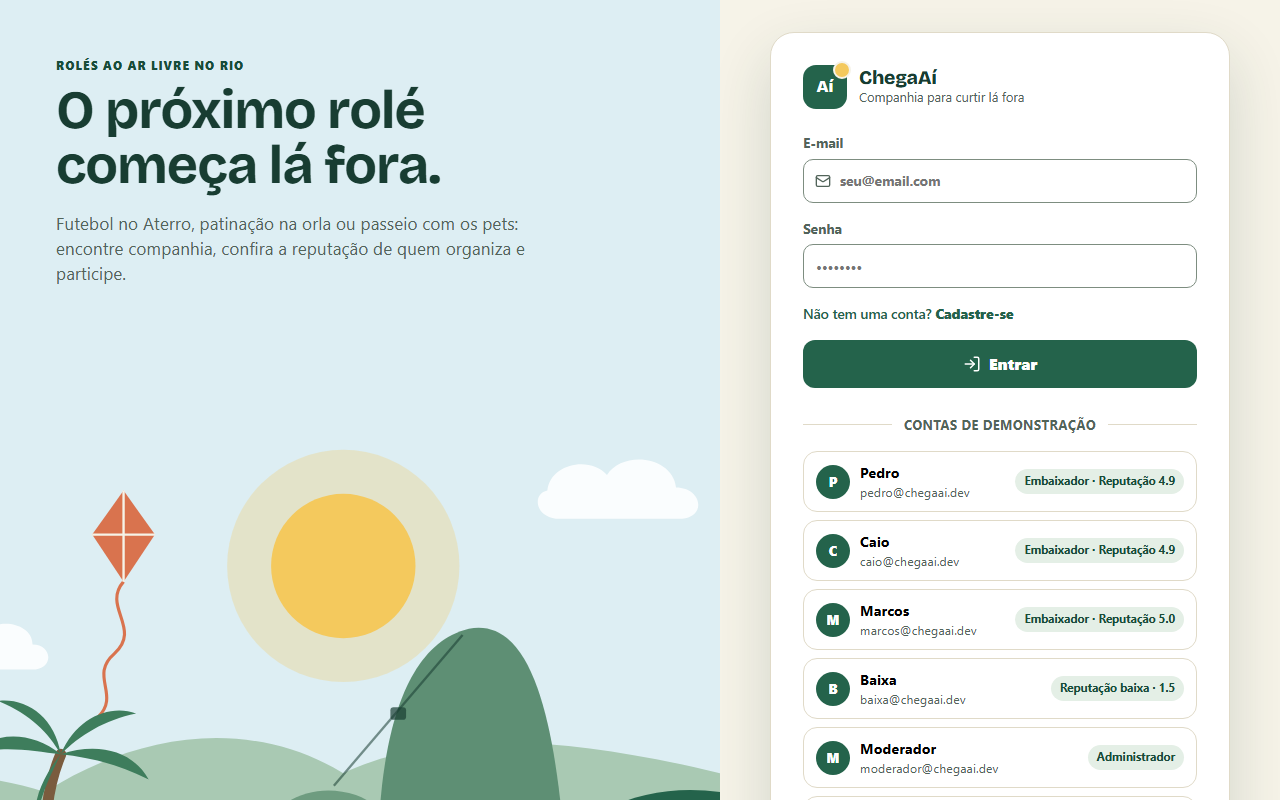
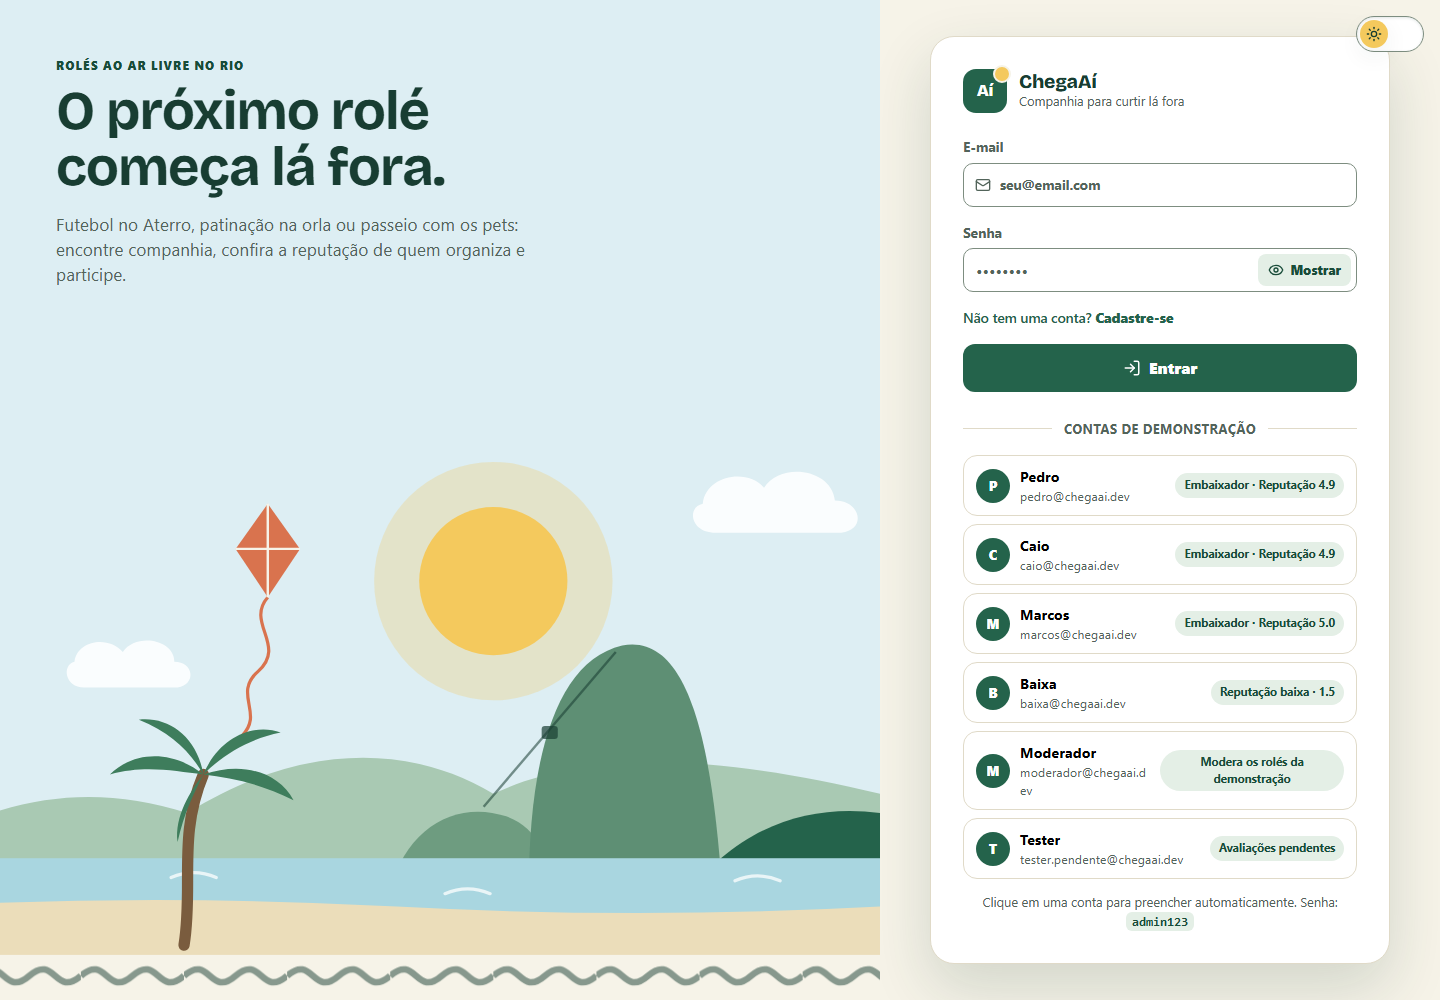
docs: atualizar fluxos e execução dos testes locais

diff --git a/README.md b/README.md
@@ -26,27 +26,37 @@ Pedro Farias continuou o projeto neste repositório:
 
 - front-end migrado de Vite para **Next.js** e dividido em componentes;
 - **autenticação real** com senhas em BCrypt, token **JWT** e cadastro de usuários (antes o login só conferia o e-mail);
-- **registro de presença** pelo organizador, que tornou o fluxo de avaliações alcançável pela API;
+- **presença, conclusão e avaliações na interface**, com resumo de ausências antes de concluir e pendências no perfil;
 - correção de horários exibidos 3 horas adiantados (UTC) e de erros de validação que viravam erro 500;
 - **testes unitários e de integração** com PostgreSQL real (Testcontainers) e integração contínua no GitHub Actions;
 - **Docker**, Docker Compose e deploy da versão online;
 - **diagramas UML** gerados a partir do código;
-- **novo visual** pensado para rolés ao ar livre: paleta de areia e verde, ilustração própria da orla, cores por categoria e navegação por cabeçalho, com foco visível e o detalhe do rolé operável pelo teclado.
+- **novo visual** pensado para rolés ao ar livre: paleta de areia e verde, ilustração da orla, cores por categoria, modo escuro e navegação lateral (abas no celular), com foco visível e diálogos operáveis pelo teclado.
 
 ## Funcionalidades
 
 - Cadastro e login com JWT; contas de demonstração prontas para testar.
-- Feed de rolés com busca e filtros por categoria, distância e honra do organizador.
+- Feed de rolés com busca e filtros por categoria e honra do organizador.
 - Criação de rolés com limite de vagas, CEP (consultado no ViaCEP) e descrição.
 - Inscrição com **fila de espera automática**: quando alguém confirmado sai, o primeiro da fila é promovido.
 - Comentários restritos a confirmados e a quem está na fila.
-- Presença registrada pelo organizador, conclusão do rolé e **avaliação entre participantes** (notas de 1 a 5).
-- Perfil com a reputação atual e as inscrições.
+- Presença corrigível pelo organizador após o início, conclusão com confirmação das ausências e **avaliação entre participantes** (notas de 1 a 5) pelo perfil.
+- Perfil com reputação atualizada, inscrições identificadas por UUID e avaliações pendentes. Respostas atrasadas de uma sessão anterior são descartadas.
 - Moderação: o moderador pode excluir rolés ainda não concluídos; o moderador de demonstração, só os das contas de demonstração.
 
 | Detalhes de um rolé | Tela de entrada |
 |---|---|
 | ![Detalhes de um rolé com comentários](docs/images/detalhes.png) | ![Tela de login com contas de demonstração](docs/images/login.png) |
+
+
+| Presenças e conclusão | Avaliações no perfil |
+|---|---|
+| ![Organizador registra presenças antes de concluir](docs/images/presencas.png) | ![Perfil com avaliações pendentes por participante](docs/images/avaliacoes.png) |
+
+Antes de concluir, o organizador confere o [resumo das ausências](docs/images/conclusao.png).
+Também há capturas do [modo escuro](docs/images/feed-escuro.png), da
+[navegação no celular](docs/images/mobile.png) e do [formulário de criação](docs/images/roles.png).
+As imagens usam contas e rolés fictícios em ambiente local.
 
 ## Regras de negócio
 
@@ -57,15 +67,16 @@ Os limites ficam em `application.properties` (`chegaai.regras.*`) e podem ser aj
 | Honra inicial | Quem se cadastra começa com honra **3.0** |
 | Criar rolé | Exige honra **≥ 2.0** e data/hora no futuro |
 | Inscrever-se | Exige conta ativa, honra **≥ 3.0**, nenhuma avaliação pendente e horário anterior ao início |
-| Cancelamento | Permitido só antes do início; sair de vaga confirmada nas 24 horas anteriores conta como cancelamento tardio |
+| Cancelamento | Permitido só antes do início; o organizador permanece inscrito. Sair de vaga confirmada nas 24 horas anteriores conta como cancelamento tardio |
 | Suspensão temporária | Ao atingir 3 cancelamentos tardios em 30 dias, a conta fica suspensa por 7 dias; saídas da fila não contam |
 | Histórico | Rolés concluídos não podem ser excluídos; o reset da demonstração também preserva presenças e avaliações que envolvam visitantes |
 | Estado da conta | Banimento bloqueia login e tokens antigos. Suspensos podem consultar, cancelar antes do início e registrar presença/concluir os próprios rolés; criar, entrar, comentar, avaliar e excluir ficam bloqueados. A suspensão temporária vence no horário registrado |
 | Embaixador | Honra **≥ 4.8**: rolés em destaque no feed e limite de **50** vagas (os demais, **20**) |
-| Fila de espera | Rolé lotado coloca a inscrição na fila; vagas liberadas vão para o primeiro da fila (FIFO) |
-| Concluir rolé | Só o organizador, e só depois da data/hora marcada |
+| Fila de espera | Ordem de entrada (FIFO); contas suspensas ou banidas são puladas temporariamente, preservando a posição. Quem volta à fila recebe uma nova posição |
+| Presença | Só o organizador, entre o início e a conclusão; pode marcar e desmarcar. Sua própria presença é automática. O histórico concluído fica congelado |
+| Concluir rolé | Só o organizador, depois do início; a interface pede confirmação com os ausentes e o desconto informado pela API |
 | Ausência | Ao concluir o rolé, confirmado sem presença registrada perde **0.5** de honra |
-| Avaliação obrigatória | Após um rolé concluído, quem compareceu precisa avaliar os demais participantes antes de se inscrever em outro |
+| Avaliação obrigatória | Após um rolé concluído, quem compareceu avalia os outros que compareceram antes de se inscrever em outro; o perfil lista exatamente essas pendências |
 | Honra | Base definida no cadastro (**3.0** por padrão; contas de demonstração têm bases próprias) até receber **3 avaliações** entre quaisquer rolés; depois, média das notas. Em ambos os casos, desconta as penalidades acumuladas, com mínimo **0** |
 | Comentários | Só confirmados ou quem está na fila de espera |
 
@@ -169,26 +180,36 @@ A documentação interativa fica no Swagger (`/api/swagger-ui.html`). Principais
 | Método | Rota | Acesso |
 |---|---|---|
 | `POST` | `/api/auth/cadastro`, `/api/auth/login` | Público |
-| `GET` | `/api/auth/me` | Autenticado |
+| `GET` | `/api/auth/me`, `/api/auth/me/inscricoes`, `/api/auth/me/avaliacoes-pendentes` | Autenticado; somente dados da própria conta |
 | `GET` | `/api/eventos`, `/api/eventos/{id}`, `/api/eventos/paginado` | Público |
 | `POST` | `/api/eventos` | Autenticado (honra ≥ 2.0) |
 | `DELETE` | `/api/eventos/{id}` | Organizador ou moderador |
 | `POST` | `/api/eventos/{id}/inscricao` | Autenticado (inscreve ou cancela) |
 | `POST` | `/api/eventos/{id}/comentarios` | Inscritos |
-| `POST` | `/api/eventos/{id}/presencas`, `/api/eventos/{id}/concluir` | Organizador |
+| `GET` | `/api/eventos/{id}/participantes` | Somente o organizador; presença e condições para concluir |
+| `PUT` | `/api/eventos/{id}/presencas/{participanteId}` | Organizador; corpo `{ "presente": true }` ou `{ "presente": false }` |
+| `POST` | `/api/eventos/{id}/presencas` | Organizador; compatibilidade para marcar presença |
+| `POST` | `/api/eventos/{id}/concluir` | Organizador |
 | `POST` | `/api/eventos/{id}/avaliacoes` | Quem participou |
 
 Rotas autenticadas recebem o token no cabeçalho `Authorization: Bearer <token>`.
 
 ## Testes
 
-| Tipo | Quantidade | Como rodar |
-|---|---|---|
-| Unitários (JUnit + Mockito) | 38 | `cd backend && ./mvnw test` |
-| Integração (PostgreSQL real com Testcontainers; precisa do Docker) | 43 | `cd backend && ./mvnw verify` |
-| Ponta a ponta (Playwright; precisa da API rodando) | 11 | `cd frontend && npx playwright test` |
+| Tipo | Como rodar |
+|---|---|
+| Unitários (JUnit + Mockito) | `cd backend && ./mvnw test` |
+| Integração (PostgreSQL real com Testcontainers; precisa do Docker) | `cd backend && ./mvnw verify` |
+| Ponta a ponta (Playwright + API + banco descartável local) | [Preparar o ambiente e executar](frontend/tests/README.md) |
 
-O GitHub Actions roda os testes do back-end e os ponta a ponta (com o build de produção do Next.js) em cada pull request e a cada push na main.
+Os E2E criam contas, rolés e comentários próprios por tentativa. O único ajuste direto no banco é
+mover a data de um rolé recém-criado para testar presença e conclusão, sem esperar o relógio.
+As fixtures aceitam somente destinos de loopback e o banco `chegaai_e2e`.
+
+O GitHub Actions executa `verify` no back-end e toda a suíte Playwright duas vezes, sem retries,
+em cada pull request e push na `main`. O front é exportado para `out/` e servido como arquivos
+estáticos, chamando a API em outra origem. O CORS permitido é conferido no navegador; o rejeitado, nos testes de integração da API.
+O modo de desenvolvimento com proxy continua disponível localmente.
 
 Os testes de carga com k6 e os relatórios de desempenho foram produzidos durante a disciplina,
 ainda com o nome ChegAê: scripts em [`tests/load`](tests/load) e resultados em [`docs/sla`](docs/sla/README.md).

diff --git a/frontend/tests/README.md b/frontend/tests/README.md
@@ -1,0 +1,101 @@
+# Testes ponta a ponta
+
+Requisitos: Docker, Java 17, Node.js 20.9+ e dependências do front instaladas com `npm ci`.
+Os exemplos abaixo usam PowerShell, a partir da raiz do repositório, com terminais separados.
+
+As fixtures aceitam apenas front, API e PostgreSQL em loopback. O banco deve se chamar
+**`chegaai_e2e`**, sem parâmetros adicionais na URL. Cada tentativa cria identidades e dados
+próprios; não são usadas contas demo nem dados da versão online. O navegador também bloqueia
+origens diferentes das duas configuradas, inclusive uma API embutida por engano em um build antigo.
+
+## 1. Banco descartável
+
+```powershell
+docker run --rm --name chegaai-e2e-local -e POSTGRES_DB=chegaai_e2e -e POSTGRES_USER=chegaai_e2e -e POSTGRES_PASSWORD=chegaai_e2e -p 127.0.0.1:55436:5432 postgres:15-alpine
+```
+
+As credenciais acima são fictícias e exclusivas deste banco local. Não use o banco de desenvolvimento.
+
+## 2. API local
+
+Em outro terminal:
+
+```powershell
+cd backend
+$env:PORT = '8086'
+$env:CHEGAAI_DB_URL = 'jdbc:postgresql://127.0.0.1:55436/chegaai_e2e'
+$env:CHEGAAI_DB_USER = 'chegaai_e2e'
+$env:CHEGAAI_DB_PASSWORD = 'chegaai_e2e'
+$env:CHEGAAI_CORS_ORIGENS = 'http://127.0.0.1:3006'
+$env:CHEGAAI_DEMO_RECRIAR = 'false'
+./mvnw.cmd -B -ntp -DskipTests package
+java -jar target/chegaai-backend-1.0.0-SNAPSHOT.jar
+```
+
+Espere `http://127.0.0.1:8086/api/actuator/health` responder `{"status":"UP"}`.
+Em Linux/macOS, use `./mvnw` e a sintaxe `export NOME=valor` para definir as mesmas variáveis.
+
+## 3. Site estático e suíte completa
+
+Em um terceiro terminal:
+
+```powershell
+cd frontend
+npm ci
+npm run test:session
+npx playwright install chromium
+$env:E2E_DATABASE_URL = 'postgresql://chegaai_e2e:chegaai_e2e@127.0.0.1:55436/chegaai_e2e'
+$env:E2E_API_BASE_URL = 'http://127.0.0.1:8086/api'
+$env:E2E_BASE_URL = 'http://127.0.0.1:3006'
+$env:E2E_MODE = 'static'
+$env:NEXT_OUTPUT = 'export'
+$env:NEXT_PUBLIC_API_BASE_URL = $env:E2E_API_BASE_URL
+npm run build
+npx playwright test --repeat-each=2 --retries=0
+```
+
+O Playwright inicia e encerra o servidor de arquivos em `tests/serve-static.mjs`; não é preciso
+abrir outro servidor do front. O endereço da API é embutido durante o build: ao mudar essa URL,
+refaça o export. Front e API precisam ter origens diferentes no modo estático.
+
+Os três testes de sessão usam o runner do Node. O Playwright descobre somente `*.spec.ts`,
+com fluxos reais de presença/avaliação, homônimos por UUID, atualização de honra e respostas
+atrasadas entre contas.
+
+O CI usa esse mesmo desenho: export completo, API separada, CORS e duas execuções de cada
+cenário sem retries, no mesmo banco e sem reset entre elas. Relatório local em
+`playwright-report/`; falhas no CI disponibilizam o relatório e o log da API como artefato.
+
+## Modo de desenvolvimento
+
+No terminal do front, mantendo as três variáveis `E2E_*_URL` anteriores:
+
+```powershell
+$env:E2E_MODE = 'dev'
+Remove-Item Env:NEXT_OUTPUT, Env:NEXT_PUBLIC_API_BASE_URL -ErrorAction SilentlyContinue
+npx playwright test --retries=0
+```
+
+O Playwright inicia `next dev` com proxy para a API configurada. Se já houver um servidor nessa
+porta, ele é reutilizado no modo dev local; confira se pertence a este checkout e usa a API correta.
+
+## Dados e relógio
+
+Cada tentativa, retry ou repetição usa um UUID novo nos e-mails, títulos e comentários.
+As verificações conferem resposta da API, estado persistido e comportamento na tela, sem
+depender de qual card ficou em primeiro lugar ou dos cenários de demonstração.
+
+Para testar presença, conclusão e avaliação, a fixture cria um rolé futuro pela API e altera
+somente sua data para duas horas atrás por SQL. A atualização é limitada ao ID do rolé,
+organizador e título registrados pela própria fixture e precisa atingir exatamente uma linha.
+Não há endpoint de teste, alteração de conta ou atalho de relógio na aplicação.
+
+Rolés próprios ainda futuros são removidos ao terminar cada cenário; históricos iniciados ou
+concluídos e contas de teste ficam no banco descartável. A suíte pode ser repetida sem reset.
+Ao terminar todas as execuções, encerre a API com Ctrl+C e remova o banco parando o contêiner:
+
+```powershell
+docker stop chegaai-e2e-local
+```
+
+Esse comando atua apenas no contêiner criado no primeiro passo, que usa `--rm` e não tem volume persistente.

diff --git a/DEPLOY.md b/DEPLOY.md
@@ -141,7 +141,7 @@ O endereço da API é embutido no build do front-end: se ele mudar, refaça o de
 ## Limites e comportamento da versão online
 
 - **API em repouso:** sem acessos por alguns minutos, o Cloud Run desliga a instância. A próxima visita leva cerca de 30 s. O front-end chama o health check assim que a página abre, para adiantar esse tempo, e mostra um aviso se o login demorar.
-- **Demonstração recriada:** com `CHEGAAI_DEMO_RECRIAR=true`, cada inicialização apaga as contas de demonstração (e o que é delas) e semeia tudo de novo, com datas atuais. Contas e eventos criados por visitantes não são tocados.
+- **Demonstração reiniciada:** com `CHEGAAI_DEMO_RECRIAR=true`, cada inicialização renova os cenários fictícios com datas atuais e preserva a identidade das contas demo. O histórico concluído que envolve visitantes é mantido, inclusive os descontos originais por ausência. As contas demo voltam a ativas e seus cancelamentos tardios fictícios são removidos. Contas reais não são resetadas; retirar uma inscrição demo de um rolé futuro promove a fila normalmente.
 - **GraphDB:** não é usado na versão online. `GET /api/recomendacoes/status` responde `available: false` e a busca semântica fica indisponível; o resto da aplicação não depende dele.
 
 ## Produção local com Docker
